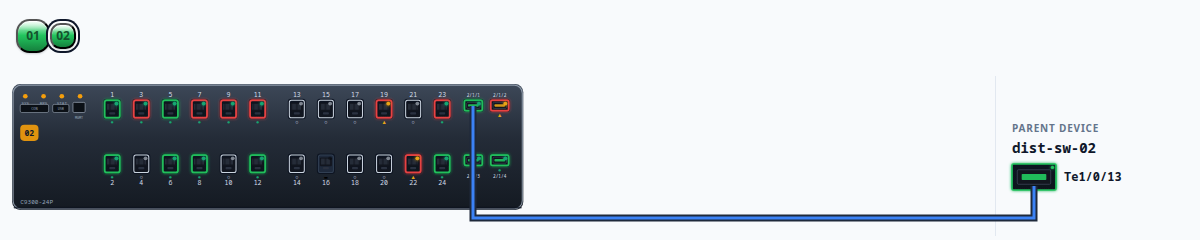
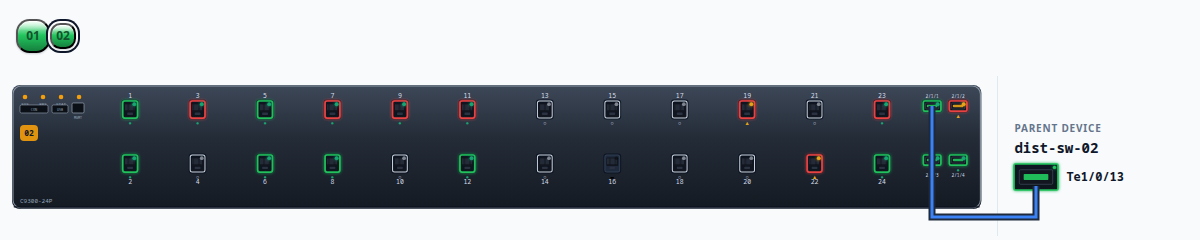
Stretch the faceplate across the grey panel to the parent divider.
One chassis fills the width up to the line beside the parent hostname and port.

Changed region(s): [[0.0, 0.35, 0.9558, 0.9333], [0.0, 0.5542, 0.0308, 0.5833]]

diff --git a/ui/src/components/faceplate/Faceplate.tsx b/ui/src/components/faceplate/Faceplate.tsx
@@ -1,6 +1,6 @@
 'use client';
 
-import React, { useId, useMemo, useRef, useState } from 'react';
+import React, { useId, useLayoutEffect, useMemo, useRef, useState } from 'react';
 import type { FaceplateDevice, PortInfo, RadioInfo } from '@/lib/types';
 import FaceplateDefs from './FaceplateDefs';
 import PortTooltip from './PortTooltip';
@@ -27,6 +27,8 @@ interface FaceplateProps {
   health?: string;
   chassisLabel?: string;
   activeMember?: number;
+  /** Pixel width of the grey panel up to the parent divider. The chassis fills it. */
+  spanWidth?: number;
 }
 
 function allPorts(d: FaceplateDevice): PortInfo[] {
@@ -50,10 +52,11 @@ function memberInk(health: string | undefined): string {
   return '#94a3b8';
 }
 
-export default function Faceplate({ device, selectedPortId = null, onSelectPort, className = '', compact = false, caption = true, health, chassisLabel, activeMember }: FaceplateProps) {
+export default function Faceplate({ device, selectedPortId = null, onSelectPort, className = '', compact = false, caption = true, health, chassisLabel, activeMember, spanWidth = 0 }: FaceplateProps) {
   const rawId = useId();
   const uid = `fp${rawId.replace(/[^a-zA-Z0-9]/g, '')}`;
   const wrapRef = useRef<HTMLDivElement>(null);
+  const [measured, setMeasured] = useState(0);
   const [hover, setHover] = useState<{ port: PortInfo; left: number; top: number } | null>(null);
   const [radioHover, setRadioHover] = useState<{ radio: RadioInfo; left: number; top: number } | null>(null);
   const [selectedRadioId, setSelectedRadioId] = useState<string | null>(null);
@@ -81,6 +84,17 @@ export default function Faceplate({ device, selectedPortId = null, onSelectPort,
   };
   const onRadioSelect = (radio: RadioInfo) => setSelectedRadioId((cur) => (cur === radio.id ? null : radio.id));
 
+  useLayoutEffect(() => {
+    const el = wrapRef.current;
+    if (!el || spanWidth > 0) return undefined;
+    const read = () => setMeasured(el.clientWidth);
+    read();
+    if (typeof ResizeObserver === 'undefined') return undefined;
+    const observer = new ResizeObserver(read);
+    observer.observe(el);
+    return () => observer.disconnect();
+  }, [spanWidth, device.form_factor, activeMember]);
+
   const onSelect = (p: PortInfo) => onSelectPort?.(selectedPortId === p.id ? null : p);
   const common = { uid, selectedId: selectedPortId, onHover, onSelect };
   const art = useFaceplateModel(device);
@@ -91,9 +105,19 @@ export default function Faceplate({ device, selectedPortId = null, onSelectPort,
       }
     : device;
 
+  const span = spanWidth > 0 ? spanWidth : measured;
   const { vbW, vbH, body, rowCount } = useMemo(() => {
     const pad = 8;
     const frame = lockedChassis(pad);
+    // The drawn chassis fills the grey panel from its left edge to the parent divider.
+    const fit = (naturalWidth: number, naturalHeight: number) => {
+      const boxH = naturalHeight + pad * 2;
+      const natural = naturalWidth + pad * 2;
+      const slotH = FACEPLATE_HEIGHT - 26;
+      const filled = span > 8 ? (span / slotH) * boxH : natural;
+      const width = Math.max(natural, filled);
+      return { vbW: width, vbH: boxH, canvasWidth: width - pad * 2 };
+    };
     if (device.form_factor === 'ceiling-ap') {
       const scale = Math.min(frame.innerW / AP_W, frame.innerH / AP_H);
       const x = pad + (frame.innerW - AP_W * scale) / 2;
@@ -127,15 +151,17 @@ export default function Faceplate({ device, selectedPortId = null, onSelectPort,
       case 'firewall': case 'branch-router': case 'wireless-controller': case 'modular-chassis': {
         const ports = device.modules?.length ? device.modules.flatMap((module) => module.ports) : (device.ports ?? []);
         const canvas = switchCanvas(ports);
+        const box = fit(canvas.width, canvas.height);
         return {
-          vbW: canvas.width + pad * 2,
-          vbH: canvas.height + pad * 2,
+          vbW: box.vbW,
+          vbH: box.vbH,
           rowCount: 1,
           body: (
             <SwitchLayout
               ports={ports}
               originX={pad}
               originY={pad}
+              canvasWidth={box.canvasWidth}
               {...common}
               ledHealth={health}
               modelLabel={chassisLabel || device.modelName || device.model || ''}
@@ -147,15 +173,17 @@ export default function Faceplate({ device, selectedPortId = null, onSelectPort,
         const member = shown.members?.[0];
         const ports = member?.ports ?? [];
         const canvas = switchCanvas(ports);
+        const box = fit(canvas.width, canvas.height);
         return {
-          vbW: canvas.width + pad * 2,
-          vbH: canvas.height + pad * 2,
+          vbW: box.vbW,
+          vbH: box.vbH,
           rowCount: 1,
           body: member ? (
             <SwitchLayout
               ports={member.ports}
               originX={pad}
               originY={pad}
+              canvasWidth={box.canvasWidth}
               {...common}
               memberNumber={member.number}
               memberHealthColor={memberInk(member.health)}
@@ -169,7 +197,7 @@ export default function Faceplate({ device, selectedPortId = null, onSelectPort,
         return { vbW: 400, vbH: 120, rowCount: 1, body: null };
     }
     // eslint-disable-next-line react-hooks/exhaustive-deps
-  }, [shown, art, selectedPortId, selectedRadioId, health, chassisLabel]);
+  }, [shown, art, selectedPortId, selectedRadioId, health, chassisLabel, span]);
 
   const ports = allPorts(shown);
   const counts = countPorts(ports);
@@ -202,7 +230,7 @@ export default function Faceplate({ device, selectedPortId = null, onSelectPort,
           aria-label={`${device.role} faceplate, ${ports.length} ports: ${summary}${snmpHint ? `. ${snmpHint}` : ''}. Use Tab to move between ports and Enter to open the port graph.`}
           className={`block min-w-0 w-full ${compact ? 'max-h-24' : ''}`}
           style={compact ? undefined : device.form_factor === 'ceiling-ap' ? { aspectRatio: `${CHASSIS_WIDTH} / ${FACEPLATE_HEIGHT}`, width: '100%' } : { width: '100%', height: drawnHeight }}
-          preserveAspectRatio="xMidYMid meet"
+          preserveAspectRatio="xMinYMid meet"
         >
           <FaceplateDefs uid={uid} />
           {body}

diff --git a/ui/src/components/faceplate/Faceplate.shots.test.tsx b/ui/src/components/faceplate/Faceplate.shots.test.tsx
@@ -47,6 +47,9 @@ function tiles(count: number, master: number): StackMemberInfo[] {
   });
 }
 
+// Grey panel content is 1192px. The divider and the parent column take 193px, so the chassis fills the rest.
+const PANEL_SPAN = 1200 - 8 - 1 - 16 - 176;
+
 function frame(device: FaceplateDevice, parent: string | null, activeMember?: number, tileCount?: number) {
   const uplinkMember = device.form_factor === 'switch-stack' ? (activeMember || 1) : 1;
   return (
@@ -62,8 +65,8 @@ function frame(device: FaceplateDevice, parent: string | null, activeMember?: nu
       data-parent-port={parent ? 'Te1/0/13' : ''}
       style={{ position: 'relative', display: 'flex', alignItems: 'stretch', width: 1200, height: 168, background: '#f8fafc', boxSizing: 'border-box', padding: 4, overflow: 'hidden' }}
     >
-      <div style={{ flex: 1, minWidth: 0, display: 'flex', alignItems: 'flex-start' }}>
-        <Faceplate device={device} activeMember={activeMember} caption={false} health={parent ? 'healthy' : 'unknown'} chassisLabel={device.form_factor === 'access-switch-48' ? 'C9300-48P' : 'C9300-24P'} />
+      <div style={{ width: PANEL_SPAN, minWidth: 0, display: 'flex', alignItems: 'flex-start' }}>
+        <Faceplate device={device} activeMember={activeMember} spanWidth={PANEL_SPAN} caption={false} health={parent ? 'healthy' : 'unknown'} chassisLabel={device.form_factor === 'access-switch-48' ? 'C9300-48P' : 'C9300-24P'} />
       </div>
       <div style={{ width: 1, background: '#e2e8f0', margin: '0 8px' }} />
       <aside style={{ width: 176, display: 'flex', flexDirection: 'column', justifyContent: 'center', padding: '4px 8px' }}>
@@ -141,6 +144,14 @@ describe('stack faceplate', () => {
     expect(container.querySelectorAll('[data-chassis]')).toHaveLength(1);
     expect(container.querySelector('[aria-label="Stack member 2"]')).toBeTruthy();
     expect(container.querySelector('[aria-label="Stack member 1"]')).toBeNull();
+  });
+
+  it('draws the chassis across the grey panel up to the parent divider', () => {
+    const { container } = render(<Faceplate device={stack(2)} caption={false} spanWidth={PANEL_SPAN} />);
+    const metal = container.querySelector('[data-chassis] rect');
+    expect(metal).toBeTruthy();
+    expect(Number(metal?.getAttribute('width'))).toBeGreaterThan(900);
+    expect(container.querySelectorAll('[data-chassis]')).toHaveLength(1);
   });
 });
 

diff --git a/ui/src/app/device-detail/components/DeviceDetailView.tsx b/ui/src/app/device-detail/components/DeviceDetailView.tsx
@@ -464,8 +464,8 @@ export default function DeviceDetailView() {
               </div>
             ) : null}
             <div ref={greyRef} className="relative flex items-stretch gap-0 overflow-hidden rounded-md bg-gradient-to-b from-secondary to-background p-1" style={{ height: FACEPLATE_HEIGHT }}>
-              <div ref={localPlateRef} className="flex min-w-0 flex-1 items-start overflow-x-auto">
-                <div className={device.faceplate.form_factor === 'ceiling-ap' ? 'w-full' : 'min-w-full'}>
+              <div ref={localPlateRef} className="flex min-w-0 flex-1 items-stretch overflow-x-auto">
+                <div className="w-full min-w-0">
                   <Faceplate
                     device={device.faceplate}
                     activeMember={activeStackMember}
